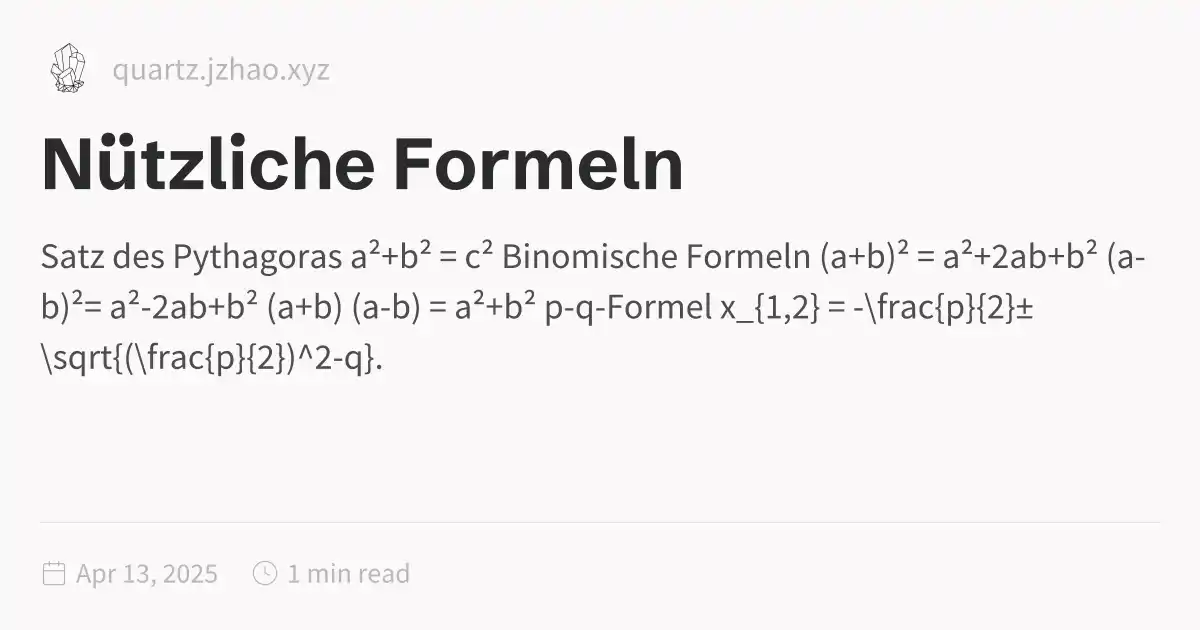
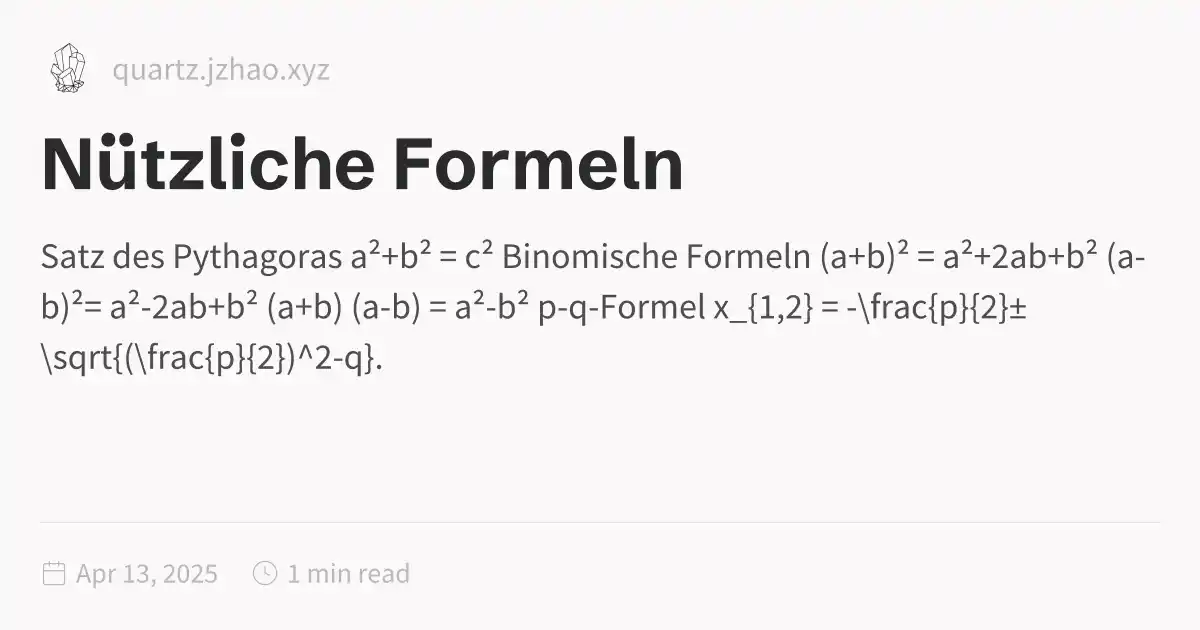
update

Changed region(s): [[0.4008, 0.4524, 0.8633, 0.5127]]

diff --git a/Nützliche-Formeln.html b/Nützliche-Formeln.html
@@ -1,5 +1,5 @@
 <!DOCTYPE html>
-<html lang="en"><head><title>Nützliche Formeln</title><meta charset="utf-8"/><link rel="preconnect" href="https://fonts.googleapis.com"/><link rel="preconnect" href="https://fonts.gstatic.com"/><link rel="stylesheet" href="https://fonts.googleapis.com/css2?family=Schibsted Grotesk:wght@400;700&amp;family=Source Sans Pro:ital,wght@0,400;0,600;1,400;1,600&amp;family=IBM Plex Mono:wght@400;600&amp;display=swap"/><link rel="preconnect" href="https://cdnjs.cloudflare.com" crossorigin="anonymous"/><meta name="viewport" content="width=device-width, initial-scale=1.0"/><meta name="og:site_name" content="Quartz 4"/><meta property="og:title" content="Nützliche Formeln"/><meta property="og:type" content="website"/><meta name="twitter:card" content="summary_large_image"/><meta name="twitter:title" content="Nützliche Formeln"/><meta name="twitter:description" content="Satz des Pythagoras a²+b² = c² Binomische Formeln (a+b)² = a²+2ab+b² (a-b)²= a²-2ab+b² (a+b) (a-b) = a²+b² p-q-Formel x_{1,2} = -\frac{p}{2}±\sqrt{(\frac{p}{2})^2-q}."/><meta property="og:description" content="Satz des Pythagoras a²+b² = c² Binomische Formeln (a+b)² = a²+2ab+b² (a-b)²= a²-2ab+b² (a+b) (a-b) = a²+b² p-q-Formel x_{1,2} = -\frac{p}{2}±\sqrt{(\frac{p}{2})^2-q}."/><meta property="og:image:alt" content="Satz des Pythagoras a²+b² = c² Binomische Formeln (a+b)² = a²+2ab+b² (a-b)²= a²-2ab+b² (a+b) (a-b) = a²+b² p-q-Formel x_{1,2} = -\frac{p}{2}±\sqrt{(\frac{p}{2})^2-q}."/><meta property="twitter:domain" content="quartz.jzhao.xyz"/><meta property="og:url" content="https://quartz.jzhao.xyz/Nützliche-Formeln"/><meta property="twitter:url" content="https://quartz.jzhao.xyz/Nützliche-Formeln"/><link rel="icon" href="./static/icon.png"/><meta name="description" content="Satz des Pythagoras a²+b² = c² Binomische Formeln (a+b)² = a²+2ab+b² (a-b)²= a²-2ab+b² (a+b) (a-b) = a²+b² p-q-Formel x_{1,2} = -\frac{p}{2}±\sqrt{(\frac{p}{2})^2-q}."/><meta name="generator" content="Quartz"/><link href="./index.css" rel="stylesheet" type="text/css" spa-preserve/><style>.expand-button {
+<html lang="en"><head><title>Nützliche Formeln</title><meta charset="utf-8"/><link rel="preconnect" href="https://fonts.googleapis.com"/><link rel="preconnect" href="https://fonts.gstatic.com"/><link rel="stylesheet" href="https://fonts.googleapis.com/css2?family=Schibsted Grotesk:wght@400;700&amp;family=Source Sans Pro:ital,wght@0,400;0,600;1,400;1,600&amp;family=IBM Plex Mono:wght@400;600&amp;display=swap"/><link rel="preconnect" href="https://cdnjs.cloudflare.com" crossorigin="anonymous"/><meta name="viewport" content="width=device-width, initial-scale=1.0"/><meta name="og:site_name" content="Quartz 4"/><meta property="og:title" content="Nützliche Formeln"/><meta property="og:type" content="website"/><meta name="twitter:card" content="summary_large_image"/><meta name="twitter:title" content="Nützliche Formeln"/><meta name="twitter:description" content="Satz des Pythagoras a²+b² = c² Binomische Formeln (a+b)² = a²+2ab+b² (a-b)²= a²-2ab+b² (a+b) (a-b) = a²-b² p-q-Formel x_{1,2} = -\frac{p}{2}±\sqrt{(\frac{p}{2})^2-q}."/><meta property="og:description" content="Satz des Pythagoras a²+b² = c² Binomische Formeln (a+b)² = a²+2ab+b² (a-b)²= a²-2ab+b² (a+b) (a-b) = a²-b² p-q-Formel x_{1,2} = -\frac{p}{2}±\sqrt{(\frac{p}{2})^2-q}."/><meta property="og:image:alt" content="Satz des Pythagoras a²+b² = c² Binomische Formeln (a+b)² = a²+2ab+b² (a-b)²= a²-2ab+b² (a+b) (a-b) = a²-b² p-q-Formel x_{1,2} = -\frac{p}{2}±\sqrt{(\frac{p}{2})^2-q}."/><meta property="twitter:domain" content="quartz.jzhao.xyz"/><meta property="og:url" content="https://quartz.jzhao.xyz/Nützliche-Formeln"/><meta property="twitter:url" content="https://quartz.jzhao.xyz/Nützliche-Formeln"/><link rel="icon" href="./static/icon.png"/><meta name="description" content="Satz des Pythagoras a²+b² = c² Binomische Formeln (a+b)² = a²+2ab+b² (a-b)²= a²-2ab+b² (a+b) (a-b) = a²-b² p-q-Formel x_{1,2} = -\frac{p}{2}±\sqrt{(\frac{p}{2})^2-q}."/><meta name="generator" content="Quartz"/><link href="./index.css" rel="stylesheet" type="text/css" spa-preserve/><style>.expand-button {
   position: absolute;
   display: flex;
   float: right;
@@ -116,13 +116,13 @@ pre:hover > .expand-button {
   padding: 0 12px;
   font-size: 14px;
 }
[2 lines of base64/hex data omitted]
 <h3 id="satz-des-pythagoras">Satz des Pythagoras<a role="anchor" aria-hidden="true" tabindex="-1" data-no-popover="true" href="#satz-des-pythagoras" class="internal"><svg width="18" height="18" viewBox="0 0 24 24" fill="none" stroke="currentColor" stroke-width="2" stroke-linecap="round" stroke-linejoin="round"><path d="M10 13a5 5 0 0 0 7.54.54l3-3a5 5 0 0 0-7.07-7.07l-1.72 1.71"></path><path d="M14 11a5 5 0 0 0-7.54-.54l-3 3a5 5 0 0 0 7.07 7.07l1.71-1.71"></path></svg></a></h3>
 <span class="katex-display"><span class="katex"><span class="katex-html" aria-hidden="true"><span class="base"><span class="strut" style="height:0.9474em;vertical-align:-0.0833em;"></span><span class="mord"><span class="mord mathnormal">a</span><span class="msupsub"><span class="vlist-t"><span class="vlist-r"><span class="vlist" style="height:0.8641em;"><span style="top:-3.113em;margin-right:0.05em;"><span class="pstrut" style="height:2.7em;"></span><span class="sizing reset-size6 size3 mtight"><span class="mord mtight"><span class="mord mtight">2</span></span></span></span></span></span></span></span></span><span class="mspace" style="margin-right:0.2222em;"></span><span class="mbin">+</span><span class="mspace" style="margin-right:0.2222em;"></span></span><span class="base"><span class="strut" style="height:0.8641em;"></span><span class="mord"><span class="mord mathnormal">b</span><span class="msupsub"><span class="vlist-t"><span class="vlist-r"><span class="vlist" style="height:0.8641em;"><span style="top:-3.113em;margin-right:0.05em;"><span class="pstrut" style="height:2.7em;"></span><span class="sizing reset-size6 size3 mtight"><span class="mord mtight"><span class="mord mtight">2</span></span></span></span></span></span></span></span></span><span class="mspace" style="margin-right:0.2778em;"></span><span class="mrel">=</span><span class="mspace" style="margin-right:0.2778em;"></span></span><span class="base"><span class="strut" style="height:0.8641em;"></span><span class="mord"><span class="mord mathnormal">c</span><span class="msupsub"><span class="vlist-t"><span class="vlist-r"><span class="vlist" style="height:0.8641em;"><span style="top:-3.113em;margin-right:0.05em;"><span class="pstrut" style="height:2.7em;"></span><span class="sizing reset-size6 size3 mtight"><span class="mord mtight"><span class="mord mtight">2</span></span></span></span></span></span></span></span></span></span></span></span></span>
 <h3 id="binomische-formeln">Binomische Formeln<a role="anchor" aria-hidden="true" tabindex="-1" data-no-popover="true" href="#binomische-formeln" class="internal"><svg width="18" height="18" viewBox="0 0 24 24" fill="none" stroke="currentColor" stroke-width="2" stroke-linecap="round" stroke-linejoin="round"><path d="M10 13a5 5 0 0 0 7.54.54l3-3a5 5 0 0 0-7.07-7.07l-1.72 1.71"></path><path d="M14 11a5 5 0 0 0-7.54-.54l-3 3a5 5 0 0 0 7.07 7.07l1.71-1.71"></path></svg></a></h3>
 <span class="katex-display"><span class="katex"><span class="katex-html" aria-hidden="true"><span class="base"><span class="strut" style="height:1em;vertical-align:-0.25em;"></span><span class="mopen">(</span><span class="mord mathnormal">a</span><span class="mspace" style="margin-right:0.2222em;"></span><span class="mbin">+</span><span class="mspace" style="margin-right:0.2222em;"></span></span><span class="base"><span class="strut" style="height:1.1141em;vertical-align:-0.25em;"></span><span class="mord mathnormal">b</span><span class="mclose"><span class="mclose">)</span><span class="msupsub"><span class="vlist-t"><span class="vlist-r"><span class="vlist" style="height:0.8641em;"><span style="top:-3.113em;margin-right:0.05em;"><span class="pstrut" style="height:2.7em;"></span><span class="sizing reset-size6 size3 mtight"><span class="mord mtight"><span class="mord mtight">2</span></span></span></span></span></span></span></span></span><span class="mspace" style="margin-right:0.2778em;"></span><span class="mrel">=</span><span class="mspace" style="margin-right:0.2778em;"></span></span><span class="base"><span class="strut" style="height:0.9474em;vertical-align:-0.0833em;"></span><span class="mord"><span class="mord mathnormal">a</span><span class="msupsub"><span class="vlist-t"><span class="vlist-r"><span class="vlist" style="height:0.8641em;"><span style="top:-3.113em;margin-right:0.05em;"><span class="pstrut" style="height:2.7em;"></span><span class="sizing reset-size6 size3 mtight"><span class="mord mtight"><span class="mord mtight">2</span></span></span></span></span></span></span></span></span><span class="mspace" style="margin-right:0.2222em;"></span><span class="mbin">+</span><span class="mspace" style="margin-right:0.2222em;"></span></span><span class="base"><span class="strut" style="height:0.7778em;vertical-align:-0.0833em;"></span><span class="mord">2</span><span class="mord mathnormal">ab</span><span class="mspace" style="margin-right:0.2222em;"></span><span class="mbin">+</span><span class="mspace" style="margin-right:0.2222em;"></span></span><span class="base"><span class="strut" style="height:0.8641em;"></span><span class="mord"><span class="mord mathnormal">b</span><span class="msupsub"><span class="vlist-t"><span class="vlist-r"><span class="vlist" style="height:0.8641em;"><span style="top:-3.113em;margin-right:0.05em;"><span class="pstrut" style="height:2.7em;"></span><span class="sizing reset-size6 size3 mtight"><span class="mord mtight"><span class="mord mtight">2</span></span></span></span></span></span></span></span></span></span></span></span></span>
 <span class="katex-display"><span class="katex"><span class="katex-html" aria-hidden="true"><span class="base"><span class="strut" style="height:1em;vertical-align:-0.25em;"></span><span class="mopen">(</span><span class="mord mathnormal">a</span><span class="mspace" style="margin-right:0.2222em;"></span><span class="mbin">−</span><span class="mspace" style="margin-right:0.2222em;"></span></span><span class="base"><span class="strut" style="height:1.1141em;vertical-align:-0.25em;"></span><span class="mord mathnormal">b</span><span class="mclose"><span class="mclose">)</span><span class="msupsub"><span class="vlist-t"><span class="vlist-r"><span class="vlist" style="height:0.8641em;"><span style="top:-3.113em;margin-right:0.05em;"><span class="pstrut" style="height:2.7em;"></span><span class="sizing reset-size6 size3 mtight"><span class="mord mtight"><span class="mord mtight">2</span></span></span></span></span></span></span></span></span><span class="mspace" style="margin-right:0.2778em;"></span><span class="mrel">=</span><span class="mspace" style="margin-right:0.2778em;"></span></span><span class="base"><span class="strut" style="height:0.9474em;vertical-align:-0.0833em;"></span><span class="mord"><span class="mord mathnormal">a</span><span class="msupsub"><span class="vlist-t"><span class="vlist-r"><span class="vlist" style="height:0.8641em;"><span style="top:-3.113em;margin-right:0.05em;"><span class="pstrut" style="height:2.7em;"></span><span class="sizing reset-size6 size3 mtight"><span class="mord mtight"><span class="mord mtight">2</span></span></span></span></span></span></span></span></span><span class="mspace" style="margin-right:0.2222em;"></span><span class="mbin">−</span><span class="mspace" style="margin-right:0.2222em;"></span></span><span class="base"><span class="strut" style="height:0.7778em;vertical-align:-0.0833em;"></span><span class="mord">2</span><span class="mord mathnormal">ab</span><span class="mspace" style="margin-right:0.2222em;"></span><span class="mbin">+</span><span class="mspace" style="margin-right:0.2222em;"></span></span><span class="base"><span class="strut" style="height:0.8641em;"></span><span class="mord"><span class="mord mathnormal">b</span><span class="msupsub"><span class="vlist-t"><span class="vlist-r"><span class="vlist" style="height:0.8641em;"><span style="top:-3.113em;margin-right:0.05em;"><span class="pstrut" style="height:2.7em;"></span><span class="sizing reset-size6 size3 mtight"><span class="mord mtight"><span class="mord mtight">2</span></span></span></span></span></span></span></span></span></span></span></span></span>
-<span class="katex-display"><span class="katex"><span class="katex-html" aria-hidden="true"><span class="base"><span class="strut" style="height:1em;vertical-align:-0.25em;"></span><span class="mopen">(</span><span class="mord mathnormal">a</span><span class="mspace" style="margin-right:0.2222em;"></span><span class="mbin">+</span><span class="mspace" style="margin-right:0.2222em;"></span></span><span class="base"><span class="strut" style="height:1em;vertical-align:-0.25em;"></span><span class="mord mathnormal">b</span><span class="mclose">)</span><span class="mopen">(</span><span class="mord mathnormal">a</span><span class="mspace" style="margin-right:0.2222em;"></span><span class="mbin">−</span><span class="mspace" style="margin-right:0.2222em;"></span></span><span class="base"><span class="strut" style="height:1em;vertical-align:-0.25em;"></span><span class="mord mathnormal">b</span><span class="mclose">)</span><span class="mspace" style="margin-right:0.2778em;"></span><span class="mrel">=</span><span class="mspace" style="margin-right:0.2778em;"></span></span><span class="base"><span class="strut" style="height:0.9474em;vertical-align:-0.0833em;"></span><span class="mord"><span class="mord mathnormal">a</span><span class="msupsub"><span class="vlist-t"><span class="vlist-r"><span class="vlist" style="height:0.8641em;"><span style="top:-3.113em;margin-right:0.05em;"><span class="pstrut" style="height:2.7em;"></span><span class="sizing reset-size6 size3 mtight"><span class="mord mtight"><span class="mord mtight">2</span></span></span></span></span></span></span></span></span><span class="mspace" style="margin-right:0.2222em;"></span><span class="mbin">+</span><span class="mspace" style="margin-right:0.2222em;"></span></span><span class="base"><span class="strut" style="height:0.8641em;"></span><span class="mord"><span class="mord mathnormal">b</span><span class="msupsub"><span class="vlist-t"><span class="vlist-r"><span class="vlist" style="height:0.8641em;"><span style="top:-3.113em;margin-right:0.05em;"><span class="pstrut" style="height:2.7em;"></span><span class="sizing reset-size6 size3 mtight"><span class="mord mtight"><span class="mord mtight">2</span></span></span></span></span></span></span></span></span></span></span></span></span>
+<span class="katex-display"><span class="katex"><span class="katex-html" aria-hidden="true"><span class="base"><span class="strut" style="height:1em;vertical-align:-0.25em;"></span><span class="mopen">(</span><span class="mord mathnormal">a</span><span class="mspace" style="margin-right:0.2222em;"></span><span class="mbin">+</span><span class="mspace" style="margin-right:0.2222em;"></span></span><span class="base"><span class="strut" style="height:1em;vertical-align:-0.25em;"></span><span class="mord mathnormal">b</span><span class="mclose">)</span><span class="mopen">(</span><span class="mord mathnormal">a</span><span class="mspace" style="margin-right:0.2222em;"></span><span class="mbin">−</span><span class="mspace" style="margin-right:0.2222em;"></span></span><span class="base"><span class="strut" style="height:1em;vertical-align:-0.25em;"></span><span class="mord mathnormal">b</span><span class="mclose">)</span><span class="mspace" style="margin-right:0.2778em;"></span><span class="mrel">=</span><span class="mspace" style="margin-right:0.2778em;"></span></span><span class="base"><span class="strut" style="height:0.9474em;vertical-align:-0.0833em;"></span><span class="mord"><span class="mord mathnormal">a</span><span class="msupsub"><span class="vlist-t"><span class="vlist-r"><span class="vlist" style="height:0.8641em;"><span style="top:-3.113em;margin-right:0.05em;"><span class="pstrut" style="height:2.7em;"></span><span class="sizing reset-size6 size3 mtight"><span class="mord mtight"><span class="mord mtight">2</span></span></span></span></span></span></span></span></span><span class="mspace" style="margin-right:0.2222em;"></span><span class="mbin">−</span><span class="mspace" style="margin-right:0.2222em;"></span></span><span class="base"><span class="strut" style="height:0.8641em;"></span><span class="mord"><span class="mord mathnormal">b</span><span class="msupsub"><span class="vlist-t"><span class="vlist-r"><span class="vlist" style="height:0.8641em;"><span style="top:-3.113em;margin-right:0.05em;"><span class="pstrut" style="height:2.7em;"></span><span class="sizing reset-size6 size3 mtight"><span class="mord mtight"><span class="mord mtight">2</span></span></span></span></span></span></span></span></span></span></span></span></span>
 <h3 id="p-q-formel">p-q-Formel<a role="anchor" aria-hidden="true" tabindex="-1" data-no-popover="true" href="#p-q-formel" class="internal"><svg width="18" height="18" viewBox="0 0 24 24" fill="none" stroke="currentColor" stroke-width="2" stroke-linecap="round" stroke-linejoin="round"><path d="M10 13a5 5 0 0 0 7.54.54l3-3a5 5 0 0 0-7.07-7.07l-1.72 1.71"></path><path d="M14 11a5 5 0 0 0-7.54-.54l-3 3a5 5 0 0 0 7.07 7.07l1.71-1.71"></path></svg></a></h3>
 <span class="katex-display"><span class="katex"><span class="katex-html" aria-hidden="true"><span class="base"><span class="strut" style="height:0.7167em;vertical-align:-0.2861em;"></span><span class="mord"><span class="mord mathnormal">x</span><span class="msupsub"><span class="vlist-t vlist-t2"><span class="vlist-r"><span class="vlist" style="height:0.3011em;"><span style="top:-2.55em;margin-left:0em;margin-right:0.05em;"><span class="pstrut" style="height:2.7em;"></span><span class="sizing reset-size6 size3 mtight"><span class="mord mtight"><span class="mord mtight">1</span><span class="mpunct mtight">,</span><span class="mord mtight">2</span></span></span></span></span><span class="vlist-s"></span></span><span class="vlist-r"><span class="vlist" style="height:0.2861em;"><span></span></span></span></span></span></span><span class="mspace" style="margin-right:0.2778em;"></span><span class="mrel">=</span><span class="mspace" style="margin-right:0.2778em;"></span></span><span class="base"><span class="strut" style="height:1.7936em;vertical-align:-0.686em;"></span><span class="mord">−</span><span class="mord"><span class="mopen nulldelimiter"></span><span class="mfrac"><span class="vlist-t vlist-t2"><span class="vlist-r"><span class="vlist" style="height:1.1076em;"><span style="top:-2.314em;"><span class="pstrut" style="height:3em;"></span><span class="mord"><span class="mord">2</span></span></span><span style="top:-3.23em;"><span class="pstrut" style="height:3em;"></span><span class="frac-line" style="border-bottom-width:0.04em;"></span></span><span style="top:-3.677em;"><span class="pstrut" style="height:3em;"></span><span class="mord"><span class="mord mathnormal">p</span></span></span></span><span class="vlist-s"></span></span><span class="vlist-r"><span class="vlist" style="height:0.686em;"><span></span></span></span></span></span><span class="mclose nulldelimiter"></span></span><span class="mspace" style="margin-right:0.2222em;"></span><span class="mbin">±</span><span class="mspace" style="margin-right:0.2222em;"></span></span><span class="base"><span class="strut" style="height:2.44em;vertical-align:-0.8953em;"></span><span class="mord sqrt"><span class="vlist-t vlist-t2"><span class="vlist-r"><span class="vlist" style="height:1.5447em;"><span class="svg-align" style="top:-4.4em;"><span class="pstrut" style="height:4.4em;"></span><span class="mord" style="padding-left:1em;"><span class="mopen">(</span><span class="mord"><span class="mopen nulldelimiter"></span><span class="mfrac"><span class="vlist-t vlist-t2"><span class="vlist-r"><span class="vlist" style="height:1.1076em;"><span style="top:-2.314em;"><span class="pstrut" style="height:3em;"></span><span class="mord"><span class="mord">2</span></span></span><span style="top:-3.23em;"><span class="pstrut" style="height:3em;"></span><span class="frac-line" style="border-bottom-width:0.04em;"></span></span><span style="top:-3.677em;"><span class="pstrut" style="height:3em;"></span><span class="mord"><span class="mord mathnormal">p</span></span></span></span><span class="vlist-s"></span></span><span class="vlist-r"><span class="vlist" style="height:0.686em;"><span></span></span></span></span></span><span class="mclose nulldelimiter"></span></span><span class="mclose"><span class="mclose">)</span><span class="msupsub"><span class="vlist-t"><span class="vlist-r"><span class="vlist" style="height:0.7401em;"><span style="top:-2.989em;margin-right:0.05em;"><span class="pstrut" style="height:2.7em;"></span><span class="sizing reset-size6 size3 mtight"><span class="mord mtight">2</span></span></span></span></span></span></span></span><span class="mspace" style="margin-right:0.2222em;"></span><span class="mbin">−</span><span class="mspace" style="margin-right:0.2222em;"></span><span class="mord mathnormal" style="margin-right:0.03588em;">q</span></span></span><span style="top:-3.5047em;"><span class="pstrut" style="height:4.4em;"></span><span class="hide-tail" style="min-width:1.02em;height:2.48em;"><svg xmlns="http://www.w3.org/2000/svg" width="400em" height="2.48em" viewBox="0 0 400000 2592" preserveAspectRatio="xMinYMin slice"><path d="M424,2478
 c-1.3,-0.7,-38.5,-172,-111.5,-514c-73,-342,-109.8,-513.3,-110.5,-514

diff --git a/Analysis/Ableitungen.html b/Analysis/Ableitungen.html
@@ -1,5 +1,5 @@
 <!DOCTYPE html>
-<html lang="en"><head><title>Ableitungen</title><meta charset="utf-8"/><link rel="preconnect" href="https://fonts.googleapis.com"/><link rel="preconnect" href="https://fonts.gstatic.com"/><link rel="stylesheet" href="https://fonts.googleapis.com/css2?family=Schibsted Grotesk:wght@400;700&amp;family=Source Sans Pro:ital,wght@0,400;0,600;1,400;1,600&amp;family=IBM Plex Mono:wght@400;600&amp;display=swap"/><link rel="preconnect" href="https://cdnjs.cloudflare.com" crossorigin="anonymous"/><meta name="viewport" content="width=device-width, initial-scale=1.0"/><meta name="og:site_name" content="Quartz 4"/><meta property="og:title" content="Ableitungen"/><meta property="og:type" content="website"/><meta name="twitter:card" content="summary_large_image"/><meta name="twitter:title" content="Ableitungen"/><meta name="twitter:description" content="Steigung an einem Punkt Mit der h-Methode f'(x) = \lim_{h\to\infty} \frac{f(x+h)-f(x)}{h} Regeln (x^n)'= nx^{n-1} k' = 0 (uv)' = u' v+vu' kx' = k (u+v)' = u' + v' Besondere Ableitungen \sin (x)' = cos(x) cos(x)' = -sin(x) ln(x)' = \fr..."/><meta property="og:description" content="Steigung an einem Punkt Mit der h-Methode f'(x) = \lim_{h\to\infty} \frac{f(x+h)-f(x)}{h} Regeln (x^n)'= nx^{n-1} k' = 0 (uv)' = u' v+vu' kx' = k (u+v)' = u' + v' Besondere Ableitungen \sin (x)' = cos(x) cos(x)' = -sin(x) ln(x)' = \fr..."/><meta property="og:image:alt" content="Steigung an einem Punkt Mit der h-Methode f'(x) = \lim_{h\to\infty} \frac{f(x+h)-f(x)}{h} Regeln (x^n)'= nx^{n-1} k' = 0 (uv)' = u' v+vu' kx' = k (u+v)' = u' + v' Besondere Ableitungen \sin (x)' = cos(x) cos(x)' = -sin(x) ln(x)' = \fr..."/><meta property="twitter:domain" content="quartz.jzhao.xyz"/><meta property="og:url" content="https://quartz.jzhao.xyz/Analysis/Ableitungen"/><meta property="twitter:url" content="https://quartz.jzhao.xyz/Analysis/Ableitungen"/><link rel="icon" href="../static/icon.png"/><meta name="description" content="Steigung an einem Punkt Mit der h-Methode f'(x) = \lim_{h\to\infty} \frac{f(x+h)-f(x)}{h} Regeln (x^n)'= nx^{n-1} k' = 0 (uv)' = u' v+vu' kx' = k (u+v)' = u' + v' Besondere Ableitungen \sin (x)' = cos(x) cos(x)' = -sin(x) ln(x)' = \fr..."/><meta name="generator" content="Quartz"/><link href="../index.css" rel="stylesheet" type="text/css" spa-preserve/><style>.expand-button {
+<html lang="en"><head><title>Ableitungen</title><meta charset="utf-8"/><link rel="preconnect" href="https://fonts.googleapis.com"/><link rel="preconnect" href="https://fonts.gstatic.com"/><link rel="stylesheet" href="https://fonts.googleapis.com/css2?family=Schibsted Grotesk:wght@400;700&amp;family=Source Sans Pro:ital,wght@0,400;0,600;1,400;1,600&amp;family=IBM Plex Mono:wght@400;600&amp;display=swap"/><link rel="preconnect" href="https://cdnjs.cloudflare.com" crossorigin="anonymous"/><meta name="viewport" content="width=device-width, initial-scale=1.0"/><meta name="og:site_name" content="Quartz 4"/><meta property="og:title" content="Ableitungen"/><meta property="og:type" content="website"/><meta name="twitter:card" content="summary_large_image"/><meta name="twitter:title" content="Ableitungen"/><meta name="twitter:description" content="Steigung an einem Punkt Mit der h-Methode f'(x) = \lim_{h\to0} \frac{f(x+h)-f(x)}{h} Regeln (x^n)'= nx^{n-1} k' = 0 (uv)' = u' v+vu' kx' = k (u+v)' = u' + v' Besondere Ableitungen \sin (x)' = cos(x) cos(x)' = -sin(x) ln(x)' = \frac1x."/><meta property="og:description" content="Steigung an einem Punkt Mit der h-Methode f'(x) = \lim_{h\to0} \frac{f(x+h)-f(x)}{h} Regeln (x^n)'= nx^{n-1} k' = 0 (uv)' = u' v+vu' kx' = k (u+v)' = u' + v' Besondere Ableitungen \sin (x)' = cos(x) cos(x)' = -sin(x) ln(x)' = \frac1x."/><meta property="og:image:alt" content="Steigung an einem Punkt Mit der h-Methode f'(x) = \lim_{h\to0} \frac{f(x+h)-f(x)}{h} Regeln (x^n)'= nx^{n-1} k' = 0 (uv)' = u' v+vu' kx' = k (u+v)' = u' + v' Besondere Ableitungen \sin (x)' = cos(x) cos(x)' = -sin(x) ln(x)' = \frac1x."/><meta property="twitter:domain" content="quartz.jzhao.xyz"/><meta property="og:url" content="https://quartz.jzhao.xyz/Analysis/Ableitungen"/><meta property="twitter:url" content="https://quartz.jzhao.xyz/Analysis/Ableitungen"/><link rel="icon" href="../static/icon.png"/><meta name="description" content="Steigung an einem Punkt Mit der h-Methode f'(x) = \lim_{h\to0} \frac{f(x+h)-f(x)}{h} Regeln (x^n)'= nx^{n-1} k' = 0 (uv)' = u' v+vu' kx' = k (u+v)' = u' + v' Besondere Ableitungen \sin (x)' = cos(x) cos(x)' = -sin(x) ln(x)' = \frac1x."/><meta name="generator" content="Quartz"/><link href="../index.css" rel="stylesheet" type="text/css" spa-preserve/><style>.expand-button {
   position: absolute;
   display: flex;
   float: right;
@@ -116,12 +116,12 @@ pre:hover > .expand-button {
   padding: 0 12px;
   font-size: 14px;
 }
[2 lines of base64/hex data omitted]
 <li>Steigung an einem Punkt</li>
 </ul>
 <hr/>
 <h3 id="mit-der-h-methode">Mit der h-Methode<a role="anchor" aria-hidden="true" tabindex="-1" data-no-popover="true" href="#mit-der-h-methode" class="internal"><svg width="18" height="18" viewBox="0 0 24 24" fill="none" stroke="currentColor" stroke-width="2" stroke-linecap="round" stroke-linejoin="round"><path d="M10 13a5 5 0 0 0 7.54.54l3-3a5 5 0 0 0-7.07-7.07l-1.72 1.71"></path><path d="M14 11a5 5 0 0 0-7.54-.54l-3 3a5 5 0 0 0 7.07 7.07l1.71-1.71"></path></svg></a></h3>
-<span class="katex-display"><span class="katex"><span class="katex-html" aria-hidden="true"><span class="base"><span class="strut" style="height:1.0519em;vertical-align:-0.25em;"></span><span class="mord"><span class="mord mathnormal" style="margin-right:0.10764em;">f</span><span class="msupsub"><span class="vlist-t"><span class="vlist-r"><span class="vlist" style="height:0.8019em;"><span style="top:-3.113em;margin-right:0.05em;"><span class="pstrut" style="height:2.7em;"></span><span class="sizing reset-size6 size3 mtight"><span class="mord mtight"><span class="mord mtight">′</span></span></span></span></span></span></span></span></span><span class="mopen">(</span><span class="mord mathnormal">x</span><span class="mclose">)</span><span class="mspace" style="margin-right:0.2778em;"></span><span class="mrel">=</span><span class="mspace" style="margin-right:0.2778em;"></span></span><span class="base"><span class="strut" style="height:2.1791em;vertical-align:-0.7521em;"></span><span class="mop op-limits"><span class="vlist-t vlist-t2"><span class="vlist-r"><span class="vlist" style="height:0.6944em;"><span style="top:-2.3479em;margin-left:0em;"><span class="pstrut" style="height:3em;"></span><span class="sizing reset-size6 size3 mtight"><span class="mord mtight"><span class="mord mathnormal mtight">h</span><span class="mrel mtight">→</span><span class="mord mtight">∞</span></span></span></span><span style="top:-3em;"><span class="pstrut" style="height:3em;"></span><span><span class="mop">lim</span></span></span></span><span class="vlist-s"></span></span><span class="vlist-r"><span class="vlist" style="height:0.7521em;"><span></span></span></span></span></span><span class="mspace" style="margin-right:0.1667em;"></span><span class="mord"><span class="mopen nulldelimiter"></span><span class="mfrac"><span class="vlist-t vlist-t2"><span class="vlist-r"><span class="vlist" style="height:1.427em;"><span style="top:-2.314em;"><span class="pstrut" style="height:3em;"></span><span class="mord"><span class="mord mathnormal">h</span></span></span><span style="top:-3.23em;"><span class="pstrut" style="height:3em;"></span><span class="frac-line" style="border-bottom-width:0.04em;"></span></span><span style="top:-3.677em;"><span class="pstrut" style="height:3em;"></span><span class="mord"><span class="mord mathnormal" style="margin-right:0.10764em;">f</span><span class="mopen">(</span><span class="mord mathnormal">x</span><span class="mspace" style="margin-right:0.2222em;"></span><span class="mbin">+</span><span class="mspace" style="margin-right:0.2222em;"></span><span class="mord mathnormal">h</span><span class="mclose">)</span><span class="mspace" style="margin-right:0.2222em;"></span><span class="mbin">−</span><span class="mspace" style="margin-right:0.2222em;"></span><span class="mord mathnormal" style="margin-right:0.10764em;">f</span><span class="mopen">(</span><span class="mord mathnormal">x</span><span class="mclose">)</span></span></span></span><span class="vlist-s"></span></span><span class="vlist-r"><span class="vlist" style="height:0.686em;"><span></span></span></span></span></span><span class="mclose nulldelimiter"></span></span></span></span></span></span>
+<span class="katex-display"><span class="katex"><span class="katex-html" aria-hidden="true"><span class="base"><span class="strut" style="height:1.0519em;vertical-align:-0.25em;"></span><span class="mord"><span class="mord mathnormal" style="margin-right:0.10764em;">f</span><span class="msupsub"><span class="vlist-t"><span class="vlist-r"><span class="vlist" style="height:0.8019em;"><span style="top:-3.113em;margin-right:0.05em;"><span class="pstrut" style="height:2.7em;"></span><span class="sizing reset-size6 size3 mtight"><span class="mord mtight"><span class="mord mtight">′</span></span></span></span></span></span></span></span></span><span class="mopen">(</span><span class="mord mathnormal">x</span><span class="mclose">)</span><span class="mspace" style="margin-right:0.2778em;"></span><span class="mrel">=</span><span class="mspace" style="margin-right:0.2778em;"></span></span><span class="base"><span class="strut" style="height:2.1791em;vertical-align:-0.7521em;"></span><span class="mop op-limits"><span class="vlist-t vlist-t2"><span class="vlist-r"><span class="vlist" style="height:0.6944em;"><span style="top:-2.3479em;margin-left:0em;"><span class="pstrut" style="height:3em;"></span><span class="sizing reset-size6 size3 mtight"><span class="mord mtight"><span class="mord mathnormal mtight">h</span><span class="mrel mtight">→</span><span class="mord mtight">0</span></span></span></span><span style="top:-3em;"><span class="pstrut" style="height:3em;"></span><span><span class="mop">lim</span></span></span></span><span class="vlist-s"></span></span><span class="vlist-r"><span class="vlist" style="height:0.7521em;"><span></span></span></span></span></span><span class="mspace" style="margin-right:0.1667em;"></span><span class="mord"><span class="mopen nulldelimiter"></span><span class="mfrac"><span class="vlist-t vlist-t2"><span class="vlist-r"><span class="vlist" style="height:1.427em;"><span style="top:-2.314em;"><span class="pstrut" style="height:3em;"></span><span class="mord"><span class="mord mathnormal">h</span></span></span><span style="top:-3.23em;"><span class="pstrut" style="height:3em;"></span><span class="frac-line" style="border-bottom-width:0.04em;"></span></span><span style="top:-3.677em;"><span class="pstrut" style="height:3em;"></span><span class="mord"><span class="mord mathnormal" style="margin-right:0.10764em;">f</span><span class="mopen">(</span><span class="mord mathnormal">x</span><span class="mspace" style="margin-right:0.2222em;"></span><span class="mbin">+</span><span class="mspace" style="margin-right:0.2222em;"></span><span class="mord mathnormal">h</span><span class="mclose">)</span><span class="mspace" style="margin-right:0.2222em;"></span><span class="mbin">−</span><span class="mspace" style="margin-right:0.2222em;"></span><span class="mord mathnormal" style="margin-right:0.10764em;">f</span><span class="mopen">(</span><span class="mord mathnormal">x</span><span class="mclose">)</span></span></span></span><span class="vlist-s"></span></span><span class="vlist-r"><span class="vlist" style="height:0.686em;"><span></span></span></span></span></span><span class="mclose nulldelimiter"></span></span></span></span></span></span>
 <hr/>
 <h3 id="regeln">Regeln<a role="anchor" aria-hidden="true" tabindex="-1" data-no-popover="true" href="#regeln" class="internal"><svg width="18" height="18" viewBox="0 0 24 24" fill="none" stroke="currentColor" stroke-width="2" stroke-linecap="round" stroke-linejoin="round"><path d="M10 13a5 5 0 0 0 7.54.54l3-3a5 5 0 0 0-7.07-7.07l-1.72 1.71"></path><path d="M14 11a5 5 0 0 0-7.54-.54l-3 3a5 5 0 0 0 7.07 7.07l1.71-1.71"></path></svg></a></h3>
 <span class="katex-display"><span class="katex"><span class="katex-html" aria-hidden="true"><span class="base"><span class="strut" style="height:1.0519em;vertical-align:-0.25em;"></span><span class="mopen">(</span><span class="mord"><span class="mord mathnormal">x</span><span class="msupsub"><span class="vlist-t"><span class="vlist-r"><span class="vlist" style="height:0.7144em;"><span style="top:-3.113em;margin-right:0.05em;"><span class="pstrut" style="height:2.7em;"></span><span class="sizing reset-size6 size3 mtight"><span class="mord mathnormal mtight">n</span></span></span></span></span></span></span></span><span class="mclose"><span class="mclose">)</span><span class="msupsub"><span class="vlist-t"><span class="vlist-r"><span class="vlist" style="height:0.8019em;"><span style="top:-3.113em;margin-right:0.05em;"><span class="pstrut" style="height:2.7em;"></span><span class="sizing reset-size6 size3 mtight"><span class="mord mtight"><span class="mord mtight">′</span></span></span></span></span></span></span></span></span><span class="mspace" style="margin-right:0.2778em;"></span><span class="mrel">=</span><span class="mspace" style="margin-right:0.2778em;"></span></span><span class="base"><span class="strut" style="height:0.8641em;"></span><span class="mord mathnormal">n</span><span class="mord"><span class="mord mathnormal">x</span><span class="msupsub"><span class="vlist-t"><span class="vlist-r"><span class="vlist" style="height:0.8641em;"><span style="top:-3.113em;margin-right:0.05em;"><span class="pstrut" style="height:2.7em;"></span><span class="sizing reset-size6 size3 mtight"><span class="mord mtight"><span class="mord mathnormal mtight">n</span><span class="mbin mtight">−</span><span class="mord mtight">1</span></span></span></span></span></span></span></span></span></span></span></span></span>

diff --git a/Analysis/index.html b/Analysis/index.html
@@ -116,6 +116,6 @@ pre:hover > .expand-button {
   padding: 0 12px;
   font-size: 14px;
 }
[2 lines of base64/hex data omitted]
 </script><script type="module">function f(i,e){if(!i)return;function r(o){o.target===this&&(o.preventDefault(),o.stopPropagation(),e())}function t(o){o.key.startsWith("Esc")&&(o.preventDefault(),e())}i?.addEventListener("click",r),window.addCleanup(()=>i?.removeEventListener("click",r)),document.addEventListener("keydown",t),window.addCleanup(()=>document.removeEventListener("keydown",t))}function y(i){for(;i.firstChild;)i.removeChild(i.firstChild)}var h=class{constructor(e,r){this.container=e;this.content=r;this.setupEventListeners(),this.setupNavigationControls(),this.resetTransform()}isDragging=!1;startPan={x:0,y:0};currentPan={x:0,y:0};scale=1;MIN_SCALE=.5;MAX_SCALE=3;cleanups=[];setupEventListeners(){let e=this.onMouseDown.bind(this),r=this.onMouseMove.bind(this),t=this.onMouseUp.bind(this),o=this.resetTransform.bind(this);this.container.addEventListener("mousedown",e),document.addEventListener("mousemove",r),document.addEventListener("mouseup",t),window.addEventListener("resize",o),this.cleanups.push(()=>this.container.removeEventListener("mousedown",e),()=>document.removeEventListener("mousemove",r),()=>document.removeEventListener("mouseup",t),()=>window.removeEventListener("resize",o))}cleanup(){for(let e of this.cleanups)e()}setupNavigationControls(){let e=document.createElement("div");e.className="mermaid-controls";let r=this.createButton("+",()=>this.zoom(.1)),t=this.createButton("-",()=>this.zoom(-.1)),o=this.createButton("Reset",()=>this.resetTransform());e.appendChild(t),e.appendChild(o),e.appendChild(r),this.container.appendChild(e)}createButton(e,r){let t=document.createElement("button");return t.textContent=e,t.className="mermaid-control-button",t.addEventListener("click",r),window.addCleanup(()=>t.removeEventListener("click",r)),t}onMouseDown(e){e.button===0&&(this.isDragging=!0,this.startPan={x:e.clientX-this.currentPan.x,y:e.clientY-this.currentPan.y},this.container.style.cursor="grabbing")}onMouseMove(e){this.isDragging&&(e.preventDefault(),this.currentPan={x:e.clientX-this.startPan.x,y:e.clientY-this.startPan.y},this.updateTransform())}onMouseUp(){this.isDragging=!1,this.container.style.cursor="grab"}zoom(e){let r=Math.min(Math.max(this.scale+e,this.MIN_SCALE),this.MAX_SCALE),t=this.content.getBoundingClientRect(),o=t.width/2,n=t.height/2,c=r-this.scale;this.currentPan.x-=o*c,this.currentPan.y-=n*c,this.scale=r,this.updateTransform()}updateTransform(){this.content.style.transform=`translate(${this.currentPan.x}px, ${this.currentPan.y}px) scale(${this.scale})`}resetTransform(){this.scale=1;let e=this.content.querySelector("svg");this.currentPan={x:e.getBoundingClientRect().width/2,y:e.getBoundingClientRect().height/2},this.updateTransform()}},C=["--secondary","--tertiary","--gray","--light","--lightgray","--highlight","--dark","--darkgray","--codeFont"],E;document.addEventListener("nav",async()=>{let e=document.querySelector(".center").querySelectorAll("code.mermaid");if(e.length===0)return;E||=await import("https://cdnjs.cloudflare.com/ajax/libs/mermaid/11.4.0/mermaid.esm.min.mjs");let r=E.default,t=new WeakMap;for(let n of e)t.set(n,n.innerText);async function o(){for(let s of e){s.removeAttribute("data-processed");let a=t.get(s);a&&(s.innerHTML=a)}let n=C.reduce((s,a)=>(s[a]=window.getComputedStyle(document.documentElement).getPropertyValue(a),s),{}),c=document.documentElement.getAttribute("saved-theme")==="dark";r.initialize({startOnLoad:!1,securityLevel:"loose",theme:c?"dark":"base",themeVariables:{fontFamily:n["--codeFont"],primaryColor:n["--light"],primaryTextColor:n["--darkgray"],primaryBorderColor:n["--tertiary"],lineColor:n["--darkgray"],secondaryColor:n["--secondary"],tertiaryColor:n["--tertiary"],clusterBkg:n["--light"],edgeLabelBackground:n["--highlight"]}}),await r.run({nodes:e})}await o(),document.addEventListener("themechange",o),window.addCleanup(()=>document.removeEventListener("themechange",o));for(let n=0;n<e.length;n++){let v=function(){let g=l.querySelector("#mermaid-space"),m=l.querySelector(".mermaid-content");if(!m)return;y(m);let w=c.querySelector("svg").cloneNode(!0);m.appendChild(w),l.classList.add("active"),g.style.cursor="grab",u=new h(g,m)},M=function(){l.classList.remove("active"),u?.cleanup(),u=null},c=e[n],s=c.parentElement,a=s.querySelector(".clipboard-button"),d=s.querySelector(".expand-button"),p=window.getComputedStyle(a),L=a.offsetWidth+parseFloat(p.marginLeft||"0")+parseFloat(p.marginRight||"0");d.style.right=`calc(${L}px + 0.3rem)`,s.prepend(d);let l=s.querySelector("#mermaid-container");if(!l)return;let u=null;d.addEventListener("click",v),f(l,M),window.addCleanup(()=>{u?.cleanup(),d.removeEventListener("click",v)})}});
 </script><script src="https://cdn.jsdelivr.net/npm/katex@0.16.11/dist/contrib/copy-tex.min.js" type="application/javascript"></script><script src="../postscript.js" type="module"></script></html>
